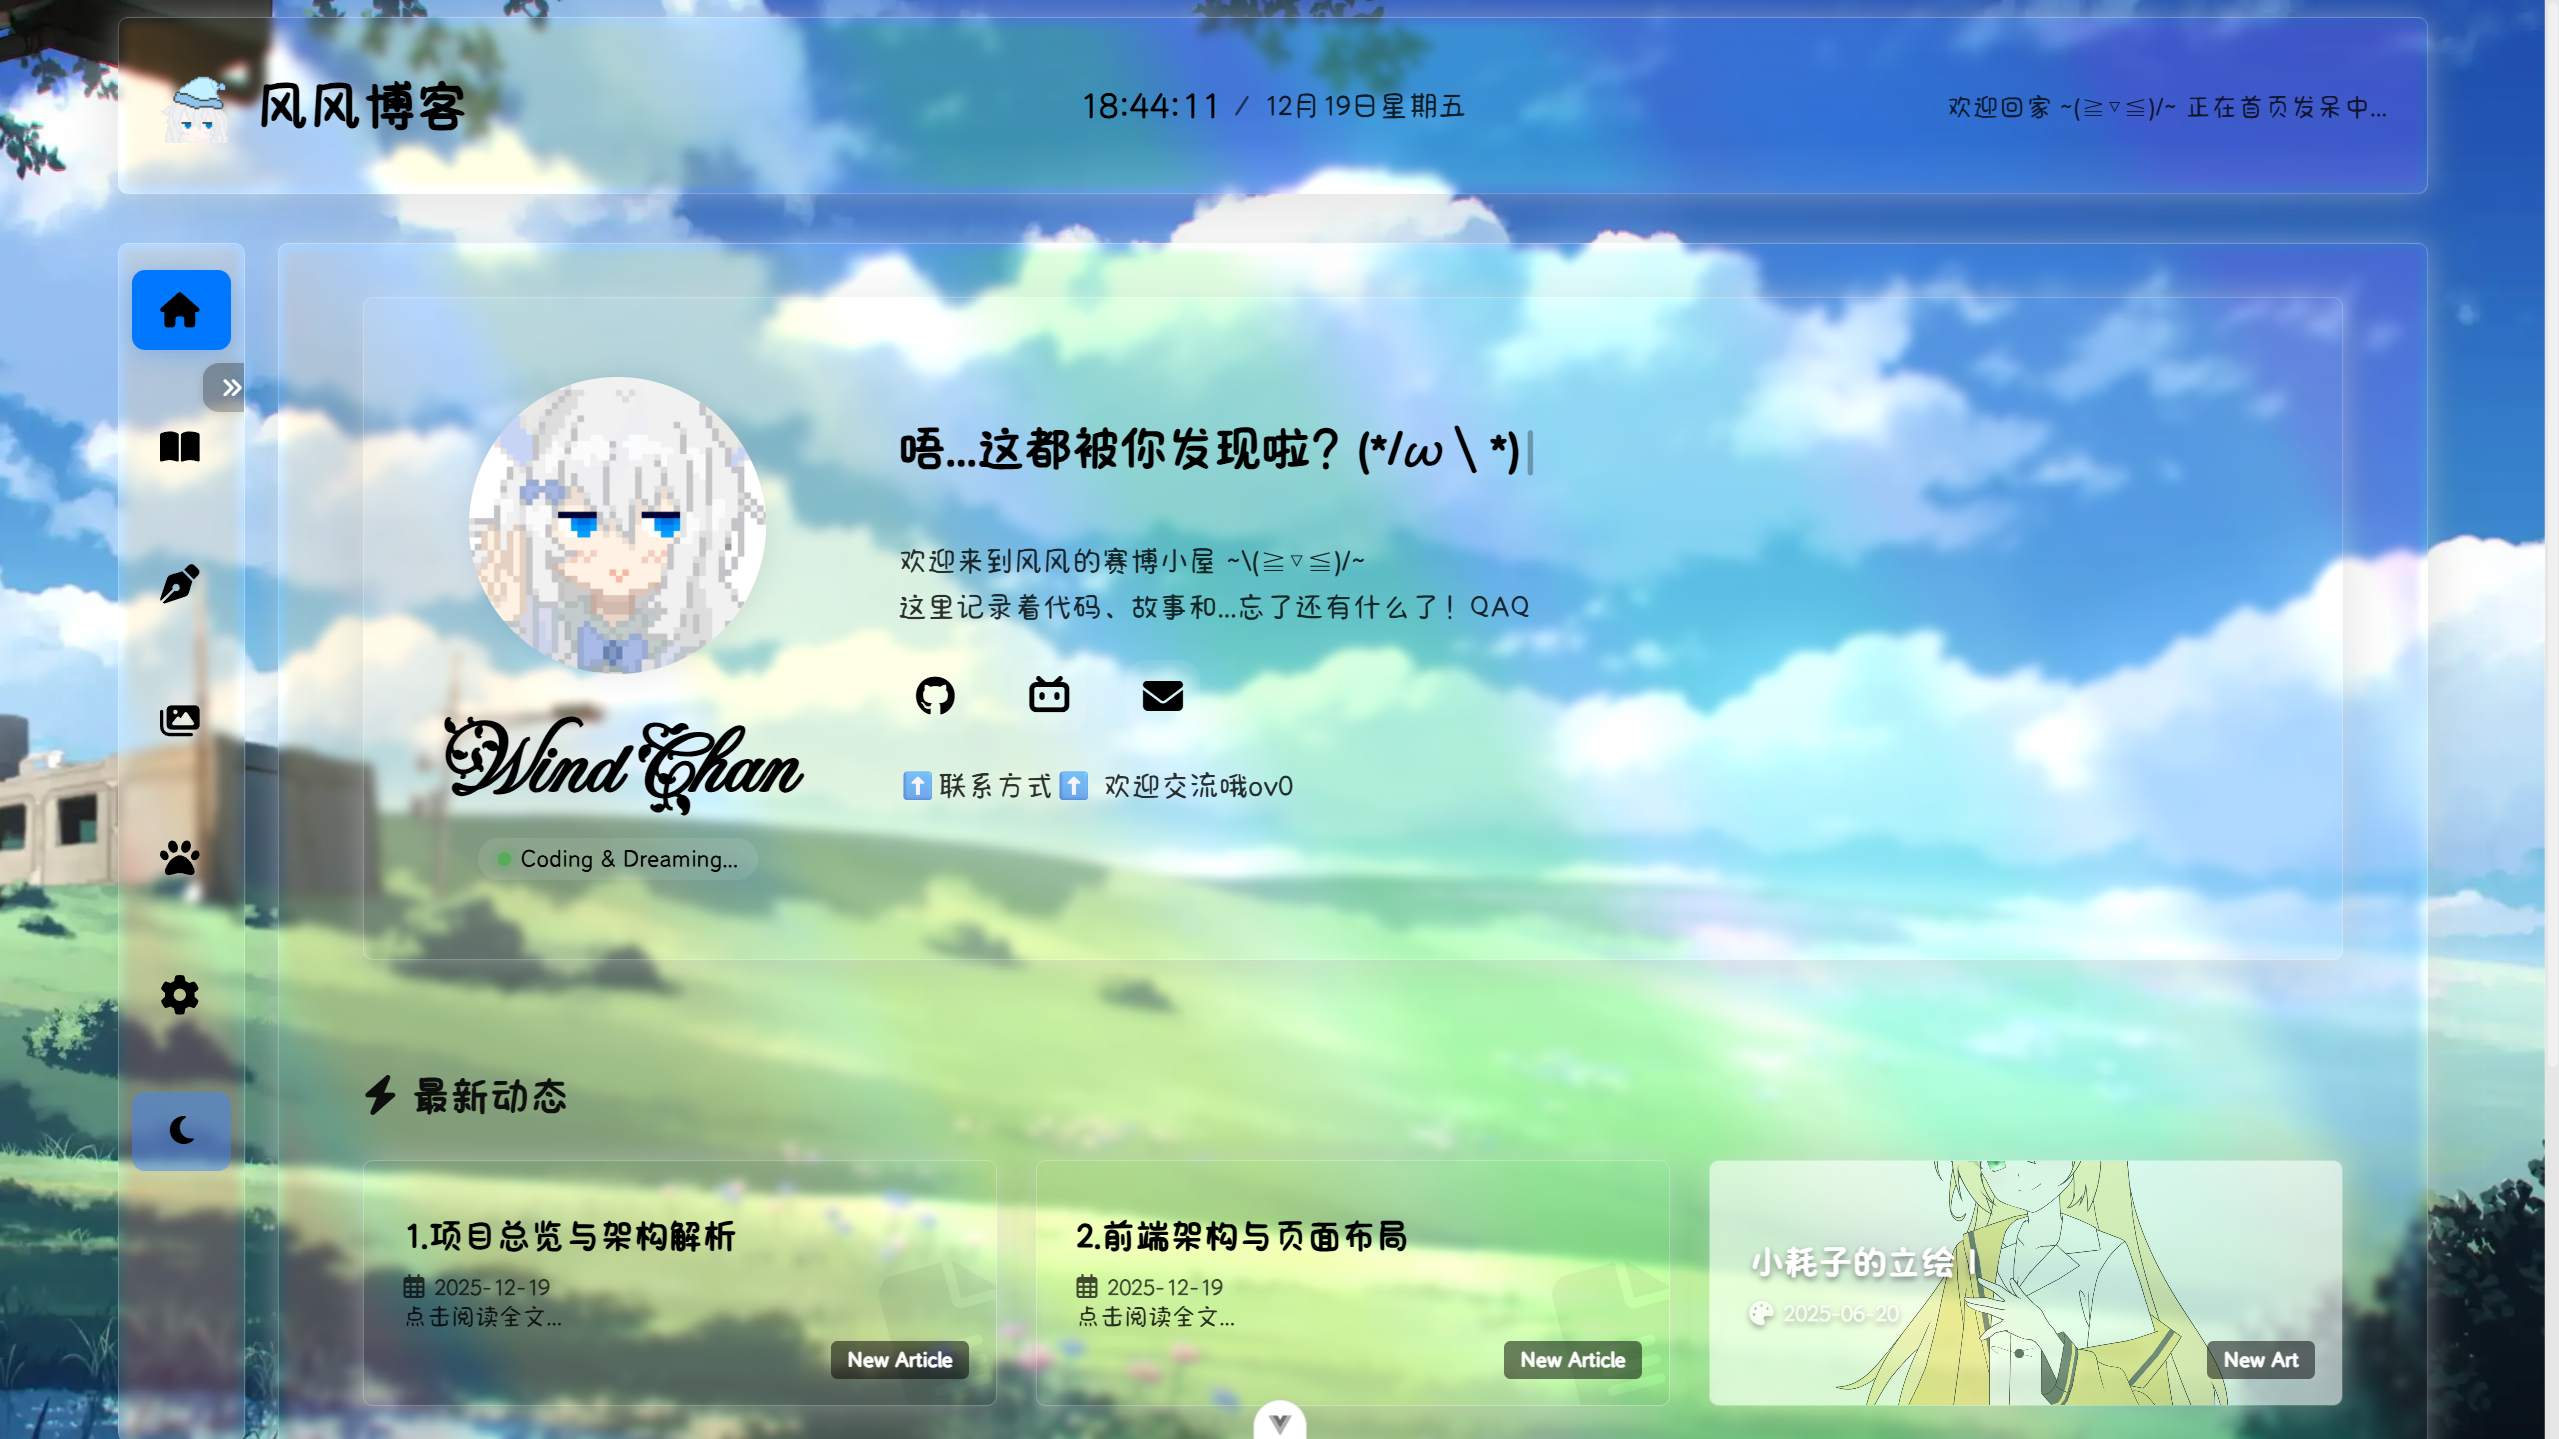
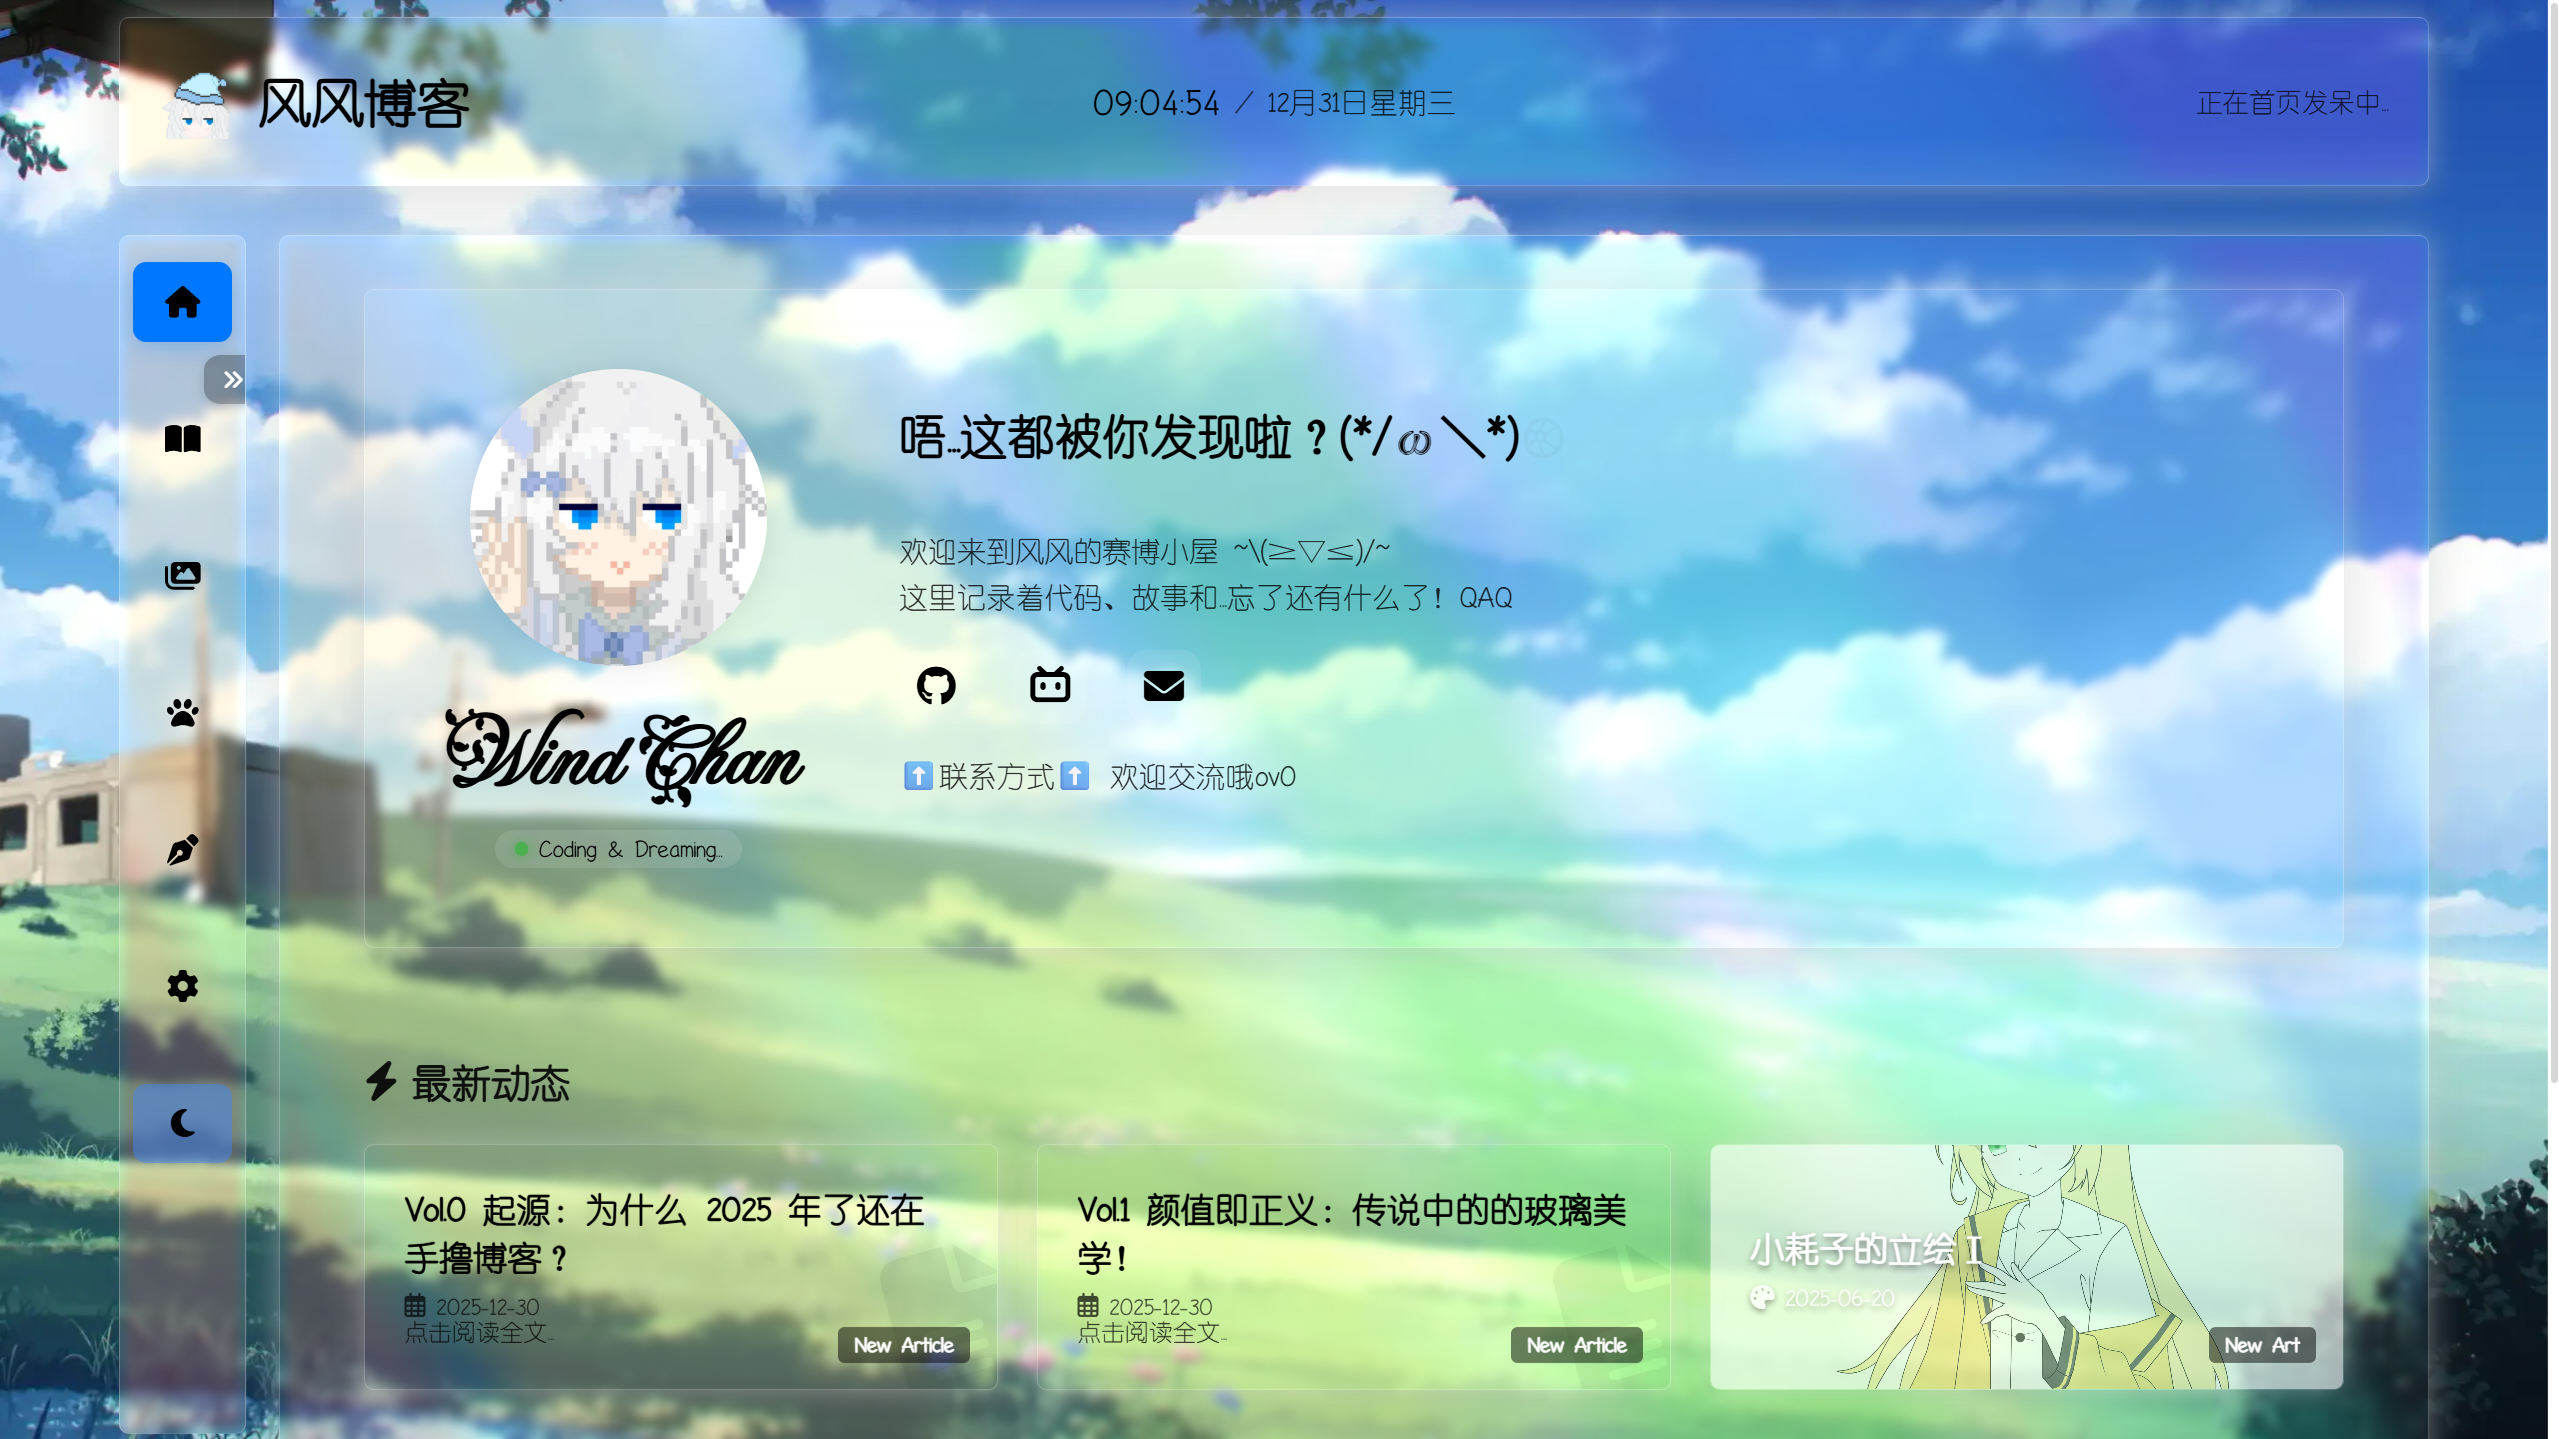
更新了readme

diff --git a/README.md b/README.md
@@ -1,10 +1,17 @@
 # 🍃 风风博客 (Wind Chan's Blog)
 
+![Vue.js](https://img.shields.io/badge/vuejs-%2335495e.svg?style=flat&logo=vuedotjs&logoColor=%234FC08D)
+![TypeScript](https://img.shields.io/badge/typescript-%23007ACC.svg?style=flat&logo=typescript&logoColor=white)
+![Flask](https://img.shields.io/badge/flask-%23000.svg?style=flat&logo=flask&logoColor=white)
+![Python](https://img.shields.io/badge/python-3670A0?style=flat&logo=python&logoColor=ffdd54)
+![License](https://img.shields.io/badge/license-CC%20BY--NC--SA%204.0-lightgrey)
+
 > 一个基于 Vue 3 + TypeScript + Flask 打造的高颜值全栈个人博客系统 ✨
 >
 > A highly customizable, aesthetic full-stack personal blog built with Vue 3, TypeScript & Flask.
 
-![示例图片1](https://github.com/futurelesswindchan/blog0fwindchan/blob/main/.github/images/blog_preview1.png)![示例图片2](https://github.com/futurelesswindchan/blog0fwindchan/blob/main/.github/images/blog_preview2.png)![示例图片3](https://github.com/futurelesswindchan/blog0fwindchan/blob/main/.github/images/blog_preview3.png)![示例图片4](https://github.com/futurelesswindchan/blog0fwindchan/blob/main/.github/images/blog_preview4.png)
+![示例图片1](https://github.com/futurelesswindchan/blog0fwindchan/blob/main/.github/images/blog_preview1.png)  
+![示例图片2](https://github.com/futurelesswindchan/blog0fwindchan/blob/main/.github/images/blog_preview2.png)
 
 ---
 
@@ -36,7 +43,7 @@
 
 - **🔌 开箱即用的演示环境**
   别担心 `clone` 下来是个空架子！Σ(°Д°;  
-  项目内置了数**据迁移脚本** (`init_db.py`)，可以一键将 `frontend/legacy_data/` 目录下的示例文章和资源导入数据库，让你瞬间拥有一个内容完整的本地站点。
+  项目内置了 **数据迁移脚本** (`init_db.py`)，可以一键将 `frontend/legacy_data/` 目录下的示例文章和资源导入数据库，让你瞬间拥有一个内容完整的本地站点。
 
 ---
 
@@ -92,7 +99,7 @@ pip install -r requirements.txt
 #    按照提示输入用户名和密码
 flask create-admin
 
-# 7. 【推荐】一键让博客内容满满当当！
+# 7. 【可选】一键让博客内容满满当当！
 #    这个脚本会把所有教程和示例文章都导入数据库
 python init_db.py
 
@@ -126,7 +133,7 @@ npm run dev
 现在，在浏览器里打开 `http://localhost:5173`。
 
 - 如果你想学习网站开发经验，去 **“技术手记”** 分类，你会找到关于 **此博客开发** 的详细心得文章。
-- 如果你只想开箱即用，把项目修改为属于自己的博客并部署到公网，去 **“奇思妙想”** 分类，你会找到你想要的！。
+- 如果你只想开箱即用，把项目修改为属于自己的博客并部署到公网，去 **“奇思妙想”** 分类，你会找到你想要的！
 
 ---
 
